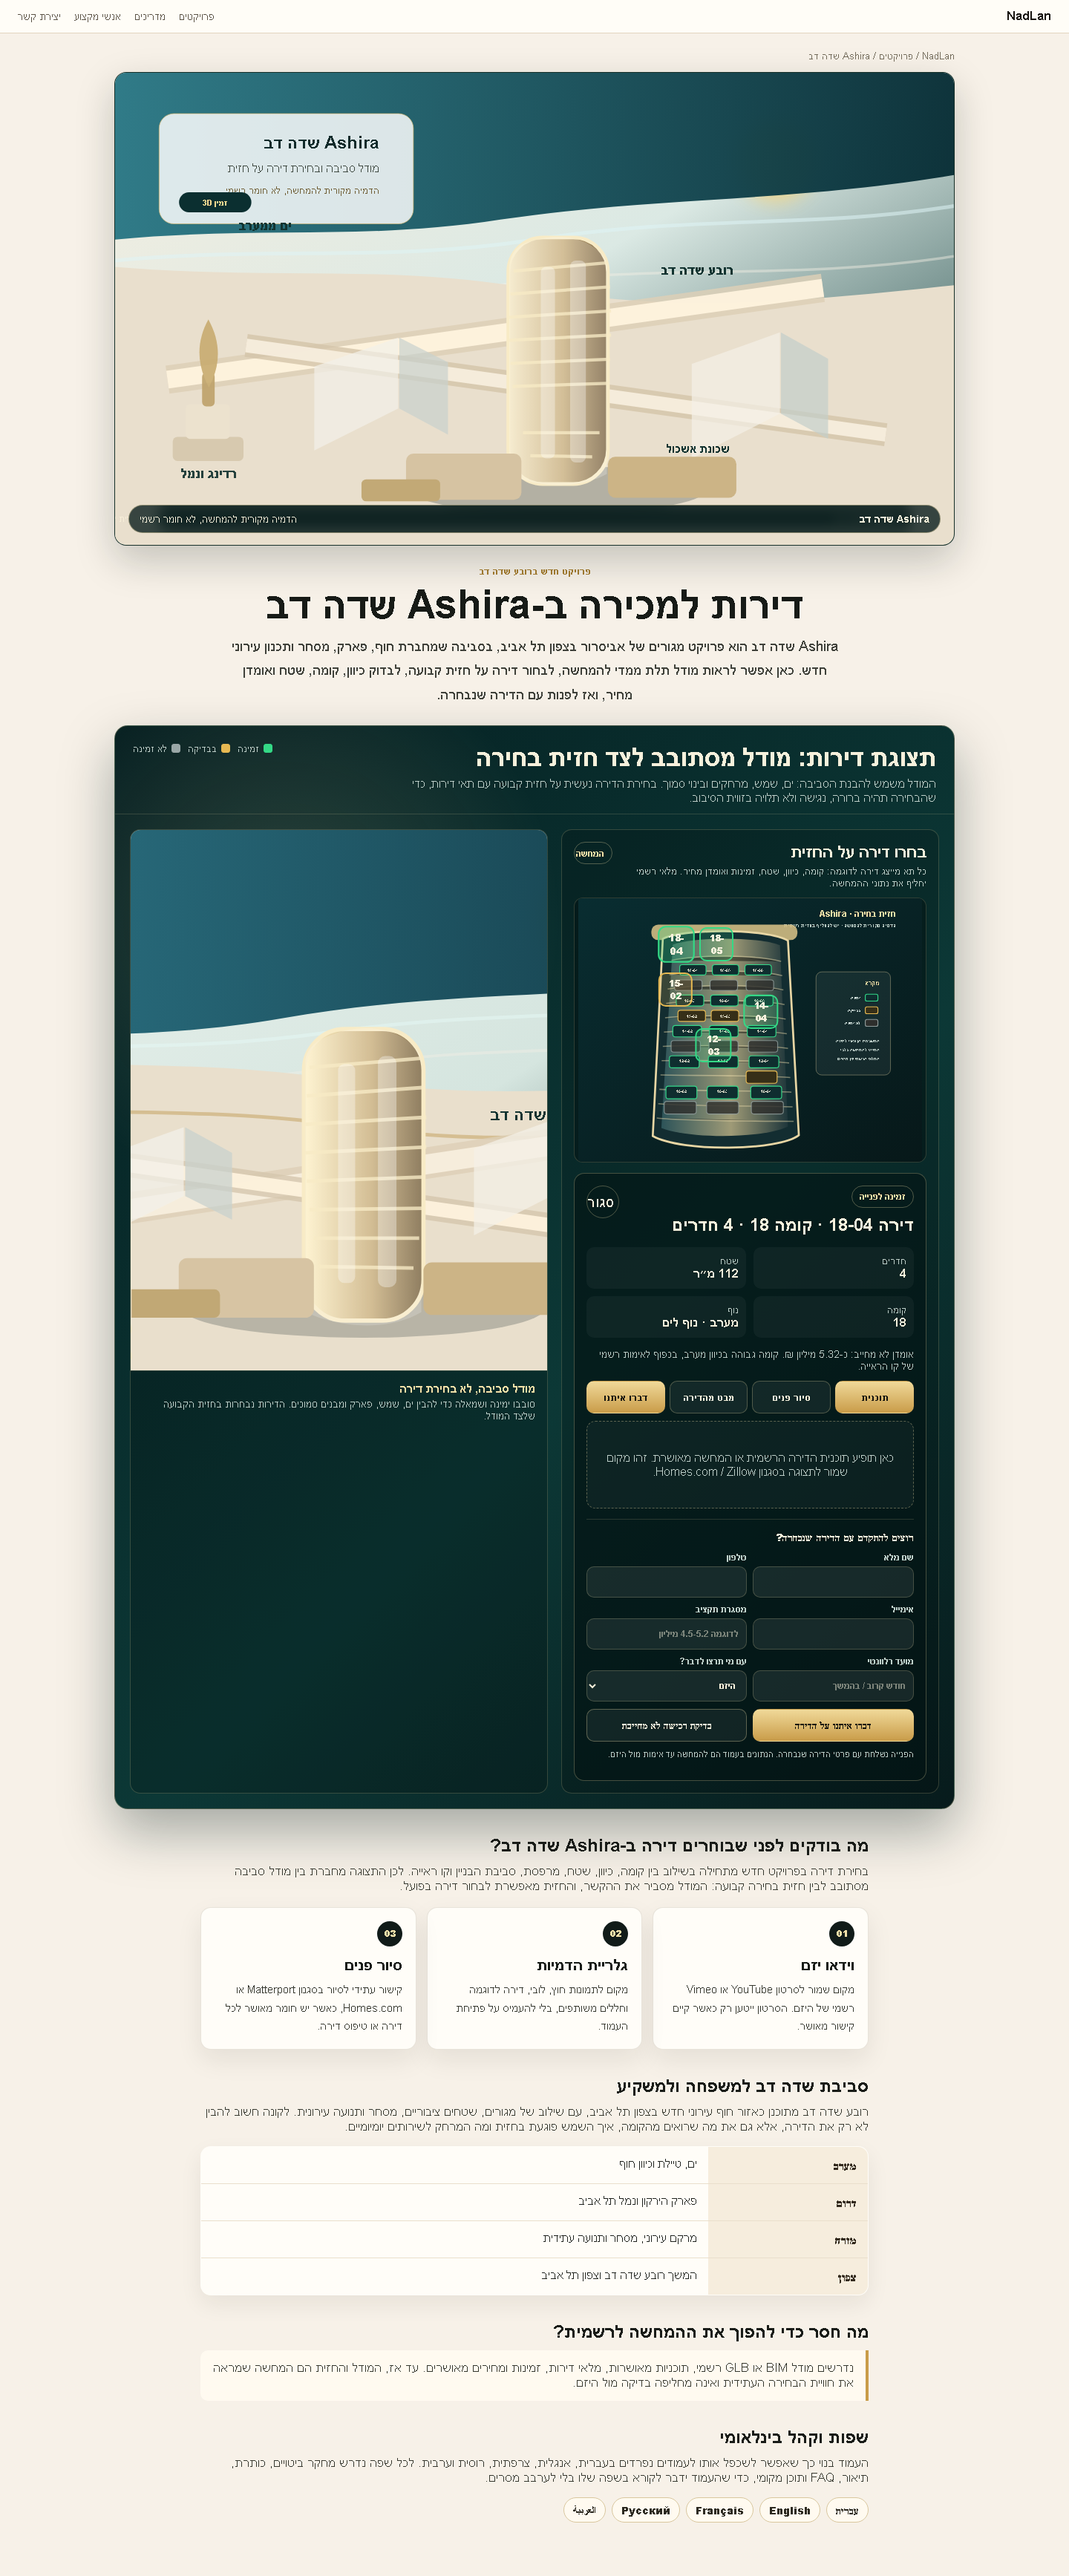
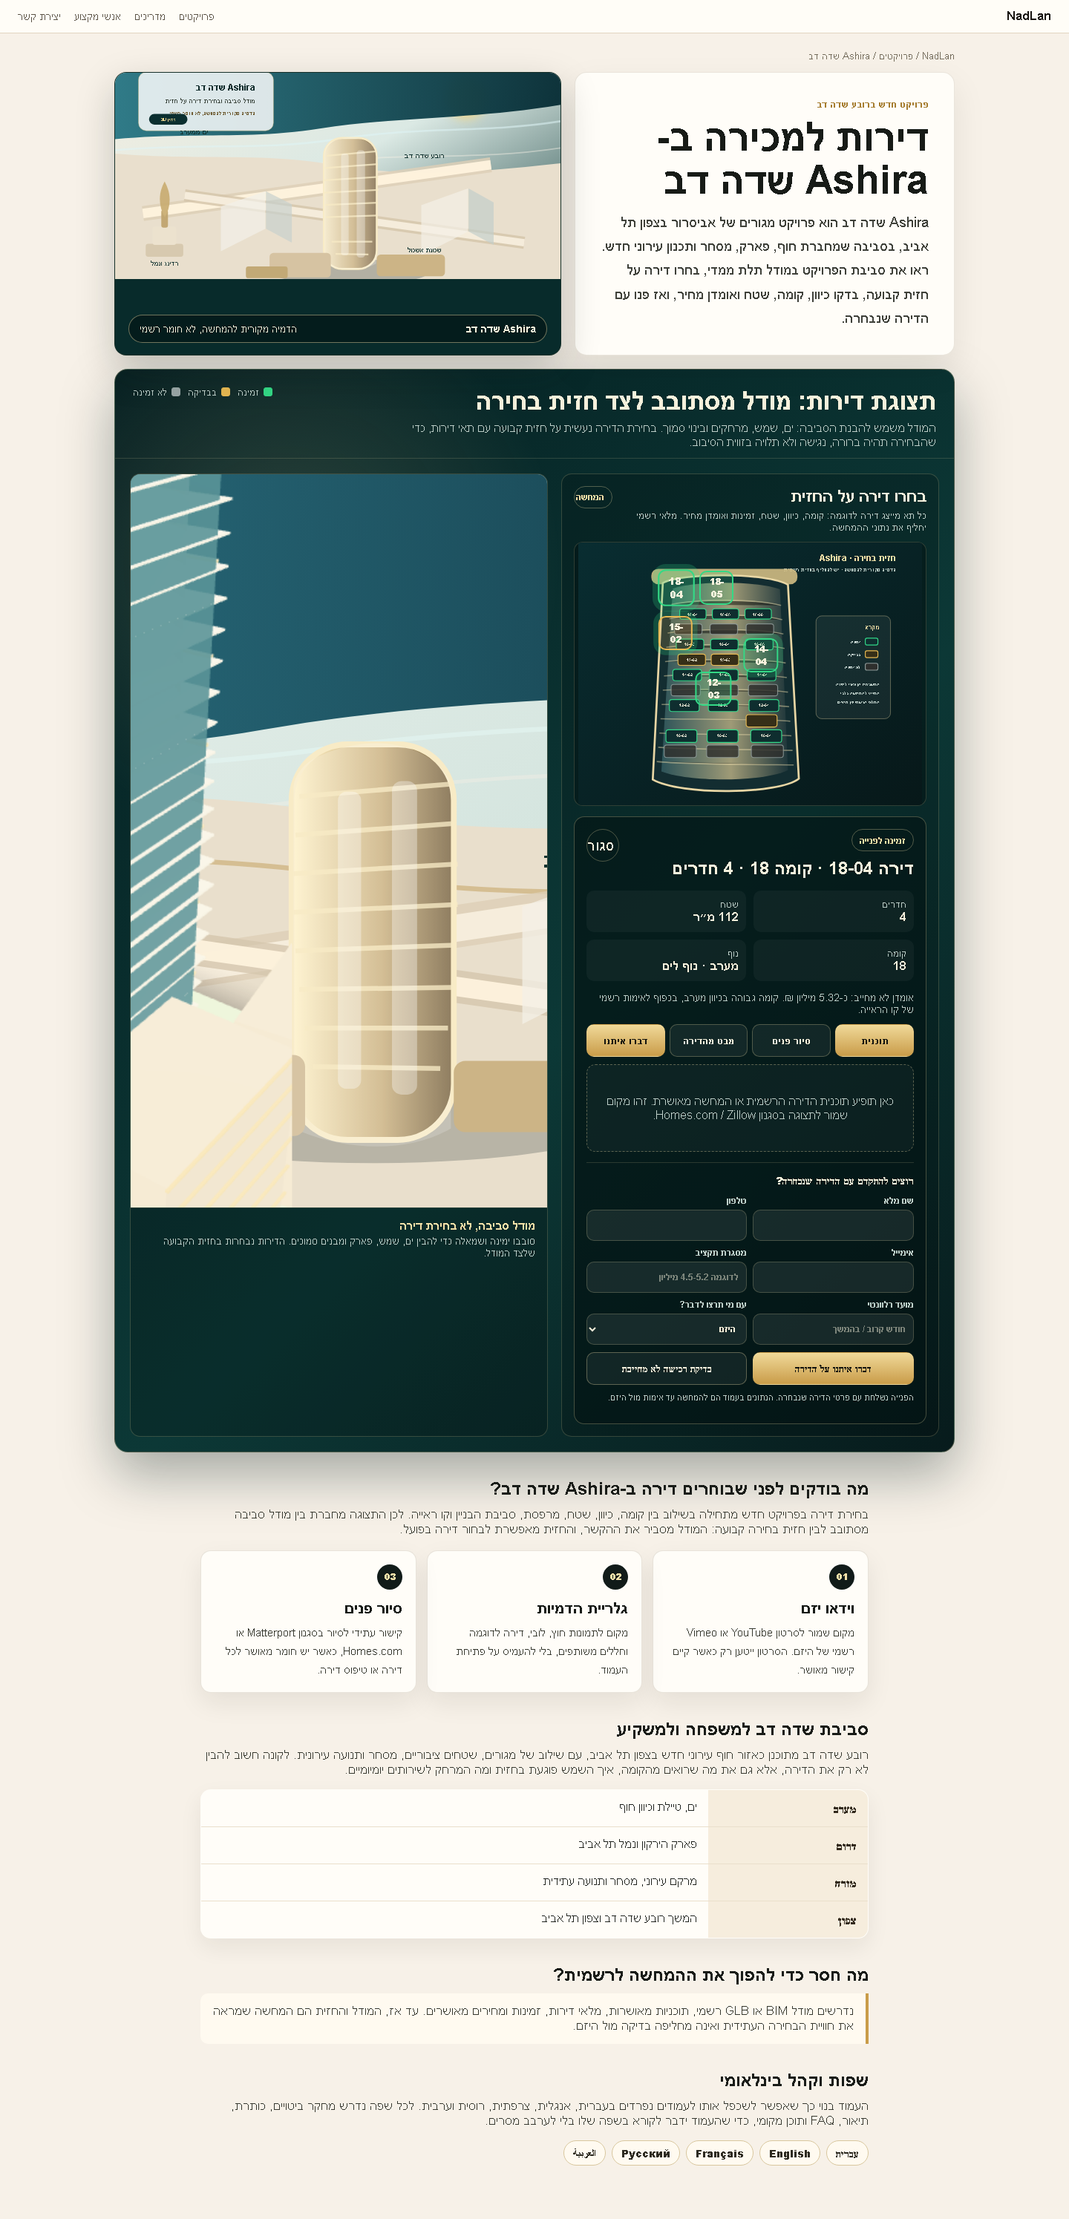
fix: compact Ashira showroom opener

diff --git a/assets/css/nadlan-project-showroom.css b/assets/css/nadlan-project-showroom.css
@@ -22,6 +22,14 @@
 	overflow-wrap: anywhere;
 }
 
+.nlps-opener {
+	display: grid;
+	grid-template-columns: minmax(0, .92fr) minmax(320px, 1.08fr);
+	gap: 18px;
+	align-items: stretch;
+	margin: 0 0 18px;
+}
+
 .nlps-poster {
 	position: relative;
 	margin: 0;
@@ -35,7 +43,7 @@
 .nlps-poster img {
 	display: block;
 	width: 100%;
-	aspect-ratio: 16 / 9;
+	height: clamp(190px, 22vw, 278px);
 	object-fit: cover;
 }
 
@@ -58,9 +66,17 @@
 }
 
 .nlps-intro {
-	width: min(900px, 100%);
-	margin: 24px auto 18px;
-	text-align: center;
+	display: flex;
+	flex-direction: column;
+	justify-content: center;
+	width: 100%;
+	margin: 0;
+	padding: clamp(18px, 3.2vw, 34px);
+	border: 1px solid rgba(95, 73, 34, .13);
+	border-radius: 16px;
+	background: #fffdf8;
+	box-shadow: 0 18px 46px rgba(26, 23, 17, .08);
+	text-align: right;
 }
 
 .nlps-eyebrow {
@@ -81,7 +97,7 @@
 
 .nlps-intro p {
 	max-width: 820px;
-	margin: 0 auto;
+	margin: 0;
 	color: #3f413a;
 	font-size: clamp(16px, 1.75vw, 19px);
 	line-height: 1.7;
@@ -89,7 +105,7 @@
 
 .nlps-shell {
 	width: 100%;
-	margin: 26px 0;
+	margin: 18px 0 26px;
 	overflow: hidden;
 	border: 1px solid rgba(242, 223, 167, .28);
 	border-radius: 18px;
@@ -609,6 +625,9 @@
 }
 
 @media (max-width: 900px) {
+	.nlps-opener {
+		grid-template-columns: minmax(0, 1fr);
+	}
 	.nlps-head { display: block; }
 	.nlps-legend { margin-top: 12px; }
 	.nlps-grid {
@@ -618,6 +637,7 @@
 	.nlps-stage { grid-template-rows: minmax(280px, 44vh) auto; }
 	.nlps-tabs { grid-template-columns: repeat(2, minmax(0, 1fr)); }
 	.nlps-resource-grid { grid-template-columns: 1fr; }
+	.nlps-poster img { height: clamp(160px, 36vw, 240px); }
 	.nlps-poster figcaption {
 		position: static;
 		border: 0;
@@ -634,6 +654,7 @@
 	}
 	.nlps-poster,
 	.nlps-intro,
+	.nlps-opener,
 	.nlps-shell,
 	.nlps-content {
 		width: calc(100vw - 18px);
@@ -651,9 +672,12 @@
 		overflow-x: hidden;
 	}
 	.nlps-poster { border-radius: 13px; }
-	.nlps-poster img { object-fit: contain; background: #062828; }
+	.nlps-poster img { height: 154px; object-fit: cover; background: #062828; }
 	.nlps-poster figcaption { display: grid; gap: 4px; font-size: 12px; }
-	.nlps-intro { margin-top: 18px; }
+	.nlps-intro {
+		margin-top: 0;
+		padding: 16px;
+	}
 	.nlps-intro h1,
 	.nlps-intro h2 { font-size: 24px; line-height: 1.18; }
 	.nlps-intro p { font-size: 15px; }

diff --git a/patterns/project-showroom-ashira-sde-dov.php b/patterns/project-showroom-ashira-sde-dov.php
@@ -16,15 +16,16 @@ $asset_base = trailingslashit( get_template_directory_uri() ) . 'assets/projects
 <main class="nlps-showroom-page nlps-showroom-ashira" data-nlps-showroom data-nlps-project-title="Ashira שדה דב" data-nlps-endpoint="<?php echo esc_url( rest_url( 'nadlan/v1/lead' ) ); ?>">
 	<p class="nlps-breadcrumbs">NadLan / פרויקטים / Ashira שדה דב</p>
 
-	<figure class="nlps-poster">
-		<img src="<?php echo esc_url( $asset_base . 'poster-prototype.svg' ); ?>" alt="Ashira שדה דב בתל אביב - הדמיית פרויקט עם אפשרות תלת מימד ובחירת דירה">
-		<figcaption><strong>Ashira שדה דב</strong><span>הדמיה מקורית להמחשה, לא חומר רשמי</span></figcaption>
-	</figure>
-
-	<section class="nlps-intro" aria-labelledby="nlps-ashira-title">
-		<span class="nlps-eyebrow">פרויקט חדש ברובע שדה דב</span>
-		<h1 id="nlps-ashira-title">דירות למכירה ב-Ashira שדה דב</h1>
-		<p>Ashira שדה דב הוא פרויקט מגורים של אביסרור בצפון תל אביב, בסביבה שמחברת חוף, פארק, מסחר ותכנון עירוני חדש. כאן אפשר לראות מודל תלת ממדי להמחשה, לבחור דירה על חזית קבועה, לבדוק כיוון, קומה, שטח ואומדן מחיר, ואז לפנות עם הדירה שנבחרה.</p>
+	<section class="nlps-opener" aria-labelledby="nlps-ashira-title">
+		<div class="nlps-intro">
+			<span class="nlps-eyebrow">פרויקט חדש ברובע שדה דב</span>
+			<h1 id="nlps-ashira-title">דירות למכירה ב-Ashira שדה דב</h1>
+			<p>Ashira שדה דב הוא פרויקט מגורים של אביסרור בצפון תל אביב, בסביבה שמחברת חוף, פארק, מסחר ותכנון עירוני חדש. ראו את סביבת הפרויקט במודל תלת ממדי, בחרו דירה על חזית קבועה, בדקו כיוון, קומה, שטח ואומדן מחיר, ואז פנו עם הדירה שנבחרה.</p>
+		</div>
+		<figure class="nlps-poster">
+			<img src="<?php echo esc_url( $asset_base . 'poster-prototype.svg' ); ?>" alt="Ashira שדה דב בתל אביב - הדמיית פרויקט עם אפשרות תלת מימד ובחירת דירה">
+			<figcaption><strong>Ashira שדה דב</strong><span>הדמיה מקורית להמחשה, לא חומר רשמי</span></figcaption>
+		</figure>
 	</section>
 
 	<section class="nlps-shell" aria-labelledby="nlps-ashira-showroom-title">

diff --git a/docs/qa/2026-06-26-ashira-showroom-factory.md b/docs/qa/2026-06-26-ashira-showroom-factory.md
@@ -57,6 +57,17 @@ node scripts/qa-ashira-preview.mjs
 - Mobile: `docs/qa/screenshots/ashira-showroom-factory-2026-06-26/mobile-390.png`
 - Interaction: `docs/qa/screenshots/ashira-showroom-factory-2026-06-26/desktop-clicked-15-02.png`
 
+## Hierarchy Gate
+
+The opener was compacted after visual QA showed the poster could consume the first viewport.
+
+- Desktop: one H1, document width 1440 on a 1440 viewport, showroom starts around 497px.
+- Tablet: one H1, document width 768 on a 768 viewport, showroom starts around 614px.
+- Mobile: one H1, document width 390 on a 390 viewport, showroom starts around 555px.
+
+This keeps project context and the first paragraph visible, but moves the actual model/facade
+selector into the first reading screen.
+
 ## Findings
 
 - PASS: Schema payload validates with 5 prototype units and 3 material slots.
